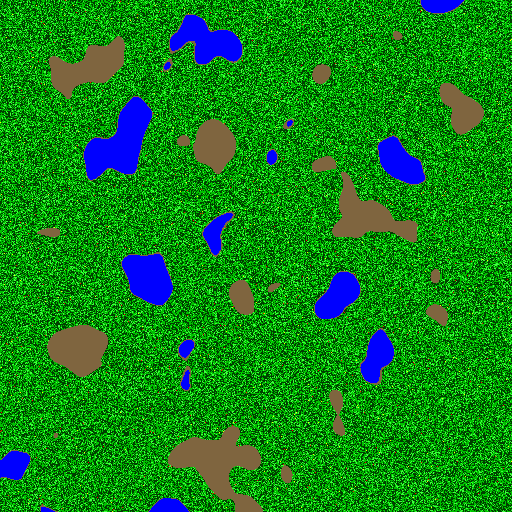
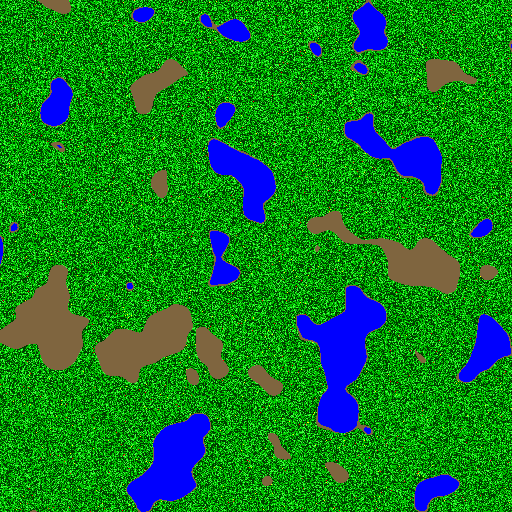
added star sectors and galaxies

diff --git a/roguelike/Game.cpp b/roguelike/Game.cpp
@@ -87,6 +87,15 @@ void Game::game_event() {
 	case GameEvent::NEW_WORLD:
 		new_world();
 		break;
+	case GameEvent::NEW_SOLAR_SYSTEM:
+		new_solar_system();
+		break;
+	case GameEvent::NEW_STAR_SECTOR:
+		new_star_sector();
+		break;
+	case GameEvent::NEW_GALAXY:
+		new_galaxy();
+		break;
 	case GameEvent::EXIT:
 		exit_game();
 		break;
@@ -187,16 +196,10 @@ void Game::startup_new_game() {
 	std::cout << "Size of one actor: " << sizeof(Actor) << std::endl;
 
 	_level = new Level;
-	_level->generate_level(256, Level::SOLAR_SYSTEM);
-
-//	_world = new World(1024);
-//	_world->generate_world();
-	
-//	_level = _world->get_current_level();
-//	_level->save_level_image("Data\\Level.png");
+	_level->generate_level(1024, Level::GALAXY);
 
 	_player = new Player(0, 0, 0, '@', TCODColor::blue);
-//	_player->spawn_player_in_world();
+	_player->spawn_player_in_world();
 
 	Input::set_mode(Input::NORMAL);
 	Input::set_input_reciever(_player);
@@ -324,4 +327,44 @@ void Game::new_world() {
 	_camera->update();
 
 	GameObjects::update = true;
+}
+
+void Game::new_solar_system() {
+	delete _level;
+	_level = new Level;
+	_level->generate_level(256, Level::SOLAR_SYSTEM);
+
+	_player = new Player(0, 0, 0, '@', TCODColor::blue);
+	_player->spawn_player_in_world();
+
+	Input::set_input_reciever(_player);
+	Input::set_mode(Input::NORMAL);
+	
+	_camera = new Camera(_player);
+	_camera->set_level(_level);
+	_camera->update();
+
+	GameObjects::update = true;
+}
+
+void Game::new_star_sector() {
+	delete _level;
+	_level = new Level;
+	_level->generate_level(512, Level::STAR_SECTOR);
+
+	_player = new Player(0, 0, 0, '@', TCODColor::blue);
+	_player->spawn_player_in_world();
+
+	Input::set_input_reciever(_player);
+	Input::set_mode(Input::NORMAL);
+
+	_camera = new Camera(_player);
+	_camera->set_level(_level);
+	_camera->update();
+
+	GameObjects::update = true;
+}
+
+void Game::new_galaxy() {
+
 }

diff --git a/roguelike/Level.cpp b/roguelike/Level.cpp
@@ -37,9 +37,22 @@ void Level::generate_level(int size, LEVEL_TYPE type) {
 	
 	switch (type) {
 	
+	case GALAXY:
+		generate_space();
+		generate_space_obj(Random::one_to_sixteen, GALAXY);
+
+		break;
+
+	case STAR_SECTOR:
+		generate_space();
+		generate_space_obj(Random::one_to_thirty_two, STAR_SECTOR);
+
+		break;
+
 	case SOLAR_SYSTEM:
 		generate_space();
 		generate_space_obj(Random::one_to_thirty_two, SOLAR_SYSTEM);
+		
 		break;
 	
 	case GRASSLAND:
@@ -109,6 +122,8 @@ void Level::generate_space() {
 }
 
 void Level::generate_space_obj(std::uniform_int_distribution<int> r, LEVEL_TYPE type) {
+	int numplanets = Random::one_to_eight(Random::generator);
+	
 	switch (type) {
 	case SOLAR_SYSTEM:
 		
@@ -121,12 +136,39 @@ void Level::generate_space_obj(std::uniform_int_distribution<int> r, LEVEL_TYPE 
 		
 		new Tile(_width / 2, _height / 2, 0, Tile::STAR);
 
-		int numplanets = Random::one_to_eight(Random::generator);
 		for (int i = 0; i < numplanets; i++) {
 			Actor* a = _actors[Random::big_number(Random::generator) % _actors.size()];
 			new Planet(a->get_screen_pos()[0], a->get_screen_pos()[1], 0, Planet::TERRA);
 		}
 
+		break;
+	
+	case STAR_SECTOR:
+		for (int i = 0; i < _actors.size(); i++) {
+			int rnd = r(Random::generator);
+			if (rnd == 2) {
+				new Tile(_actors[i]->get_screen_pos()[0], _actors[i]->get_screen_pos()[1], 0, Tile::STAR_DUST);
+			}
+			if (rnd == 1) {
+				new SolarSystem(_actors[i]->get_screen_pos()[0], _actors[i]->get_screen_pos()[1], 0);
+			}
+		}
+	
+		break;
+	
+	case GALAXY:
+		TCODImage im = TCODImage::TCODImage("Data\\Galaxy1.png");
+		for (int x = 0; x < _width; x++) {
+			for (int y = 0; y < _height; y++) {
+				if (im.getPixel(x, y).getValue() > 0) {
+					new Tile(x, y, 0, Tile::STAR_DUST);
+					if (r(Random::generator) == 1) {
+						new StarSector(x, y, 0);
+					}
+				}
+			}
+		}
+	
 		break;
 	}
 }

diff --git a/roguelike/Tile.cpp b/roguelike/Tile.cpp
@@ -169,9 +169,40 @@ Tile::Tile(int x, int y, int z, TILE_TYPE type, TCODColor color) : Actor(x, y, z
 		_name = "Distant Star";
 		break;
 
+	case STAR_DUST:
+		_c = 0;
+		_fcolor = TCODColor::black;
+		_bcolor = TCODColor(Random::one_to_sixty_four(Random::generator), 0, Random::one_to_sixty_four(Random::generator));
+
+		_name = "Star Dust";
+		break;
 	}
 
 
+}
+
+StarSector::StarSector(int x, int y, int z) : Actor(x, y, z) {
+	_c = '*';
+	_fcolor = TCODColor::white;
+	_bcolor = TCODColor::black;
+
+	_name = "Star Sector";
+}
+
+void StarSector::on_pg_down() {
+	GameEvent::set_event(GameEvent::NEW_STAR_SECTOR);
+}
+
+SolarSystem::SolarSystem(int x, int y, int z) : Actor(x, y, z) {
+	_c = '*';
+	_fcolor = TCODColor::white;
+	_bcolor = TCODColor::black;
+
+	_name = "Star";
+}
+
+void SolarSystem::on_pg_down() {
+	GameEvent::set_event(GameEvent::NEW_SOLAR_SYSTEM);
 }
 
 Planet::Planet(int x, int y, int z, PLANET_TYPE type) : Actor(x, y, z) {
@@ -187,6 +218,6 @@ Planet::Planet(int x, int y, int z, PLANET_TYPE type) : Actor(x, y, z) {
 
 }
 
-void Planet::on_down() {
+void Planet::on_pg_down() {
 	GameEvent::set_event(GameEvent::NEW_WORLD);
 }

diff --git a/roguelike/Tile.h b/roguelike/Tile.h
@@ -20,11 +20,30 @@ public:
 		STAR,
 		PLANET,
 		DISTANT_STAR,
+		STAR_DUST,
 	};
 
 	Tile();
 	
 	Tile(int x, int y, int z, TILE_TYPE type, TCODColor color = TCODColor::black);
+};
+
+class StarSector : public Actor {
+public:
+	StarSector(int x, int y, int z);
+
+	virtual void on_pg_down() override;
+};
+
+class SolarSystem : public Actor {
+public:
+	enum SOLAR_TYPE {
+		MAIN_SEQUENCE,
+	};
+	
+	SolarSystem(int x, int y, int z);
+
+	virtual void on_pg_down() override;
 };
 
 class Planet : public Actor {
@@ -34,5 +53,5 @@ public:
 	};
 	Planet(int x, int y, int z, PLANET_TYPE type);
 
-	virtual void on_down() override;
+	virtual void on_pg_down() override;
 };

diff --git a/roguelike/Input.cpp b/roguelike/Input.cpp
@@ -54,7 +54,7 @@ void Input::input(TCOD_key_t key) {
 			
 			case TCODK_PAGEDOWN:
 				if (GameObjects::player_controlled) {
-					Actor::get_actor(_reciever->get_world_pos()[0], _reciever->get_world_pos()[1], 0)->on_down();
+					Actor::get_actor(_reciever->get_world_pos()[0], _reciever->get_world_pos()[1], 0)->on_pg_down();
 				}
 			}
 

diff --git a/roguelike/Actor.h b/roguelike/Actor.h
@@ -62,7 +62,7 @@ public:
 	friend bool operator== (const Actor &a1, const Actor &a2);
 	friend bool operator!= (const Actor &a1, const Actor &a2);
 
-	virtual void on_down() {}
+	virtual void on_pg_down() {}
 
 protected:
 	int _screen_x, _screen_y, _screen_z;

diff --git a/roguelike/GameEvent.h b/roguelike/GameEvent.h
@@ -11,6 +11,9 @@ public:
 		NEW_INFO_VIEWER,
 		DELETE_INFO_VIEWER,
 		NEW_WORLD,
+		NEW_SOLAR_SYSTEM,
+		NEW_STAR_SECTOR,
+		NEW_GALAXY,
 		EXIT,
 	};
 	enum class GAME_STATUS {

diff --git a/roguelike/Game.h b/roguelike/Game.h
@@ -48,6 +48,12 @@ public:
 
 	void new_world();
 
+	void new_solar_system();
+
+	void new_star_sector();
+
+	void new_galaxy();
+
 private:
 	void game_loop();
 
